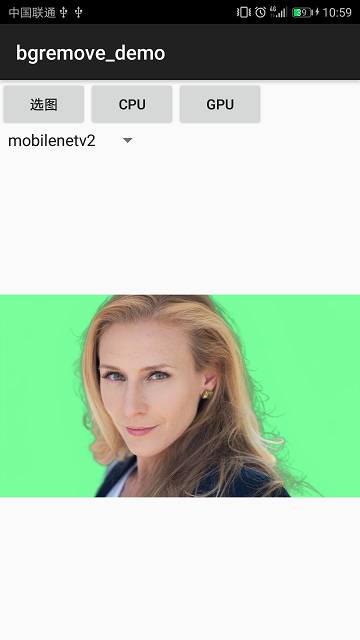
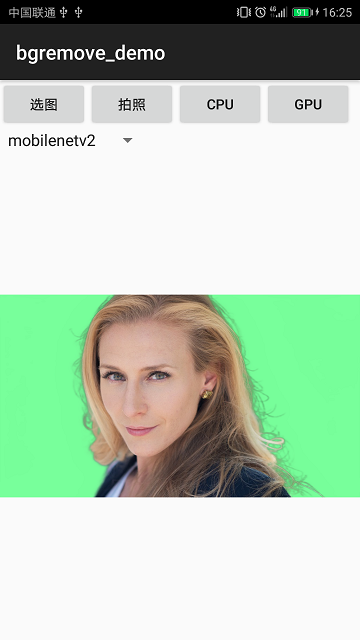
add take_photo from camera

diff --git a/app/src/main/java/com/tencent/photo/MainActivity.java b/app/src/main/java/com/tencent/photo/MainActivity.java
@@ -13,6 +13,8 @@
 // specific language governing permissions and limitations under the License.
 
 package com.tencent.photo;
+import android.os.Build;
+import android.Manifest;
 
 import android.app.Activity;
 import android.content.Intent;
@@ -29,28 +31,46 @@ import android.widget.ImageView;
 import android.widget.Spinner;
 import android.media.ExifInterface;
 import android.graphics.Matrix;
-
-import java.io.FileNotFoundException;
-import java.io.InputStream;
+import android.content.pm.PackageManager;
+import java.io.File;
 import java.io.IOException;
+import java.io.FileNotFoundException;
+import android.support.v4.app.ActivityCompat;
+import android.support.v4.content.ContextCompat;
+import android.support.v4.content.FileProvider;
+import android.provider.MediaStore;
 
+import android.os.Environment;
 public class MainActivity extends Activity
 {
-    private static final int SELECT_IMAGE = 1;
-
+    private static final int TAKE_PHOTO = 1;
+    private static final int SELECT_IMAGE = 2;
     private int style_type = 0;
     private ImageView imageView;
     private Bitmap yourSelectedImage = null;
+    private Uri imageUri;
+    private final String filePath = Environment.getExternalStorageDirectory() + File.separator + "output_image.jpg";
 
     private Photo photo = new Photo();
-
+    @Override
+    public void onRequestPermissionsResult(int requestCode, String[] permissions, int[] grantResults) {
+        super.onRequestPermissionsResult(requestCode, permissions, grantResults);
+        if (grantResults != null && grantResults.length != 0 && grantResults[0] == PackageManager.PERMISSION_GRANTED) {
+            switch (requestCode) {
+                case 1: {
+                    requestCamera();
+                }
+                break;
+            }
+        }
+    }
     /** Called when the activity is first created. */
     @Override
     public void onCreate(Bundle savedInstanceState)
     {
         super.onCreate(savedInstanceState);
         setContentView(R.layout.main);
-
+        //requestPermission();
         boolean ret_init = photo.Init(getAssets());
         if (!ret_init)
         {
@@ -68,7 +88,13 @@ public class MainActivity extends Activity
                 startActivityForResult(i, SELECT_IMAGE);
             }
         });
-
+        Button buttonCamera = (Button) findViewById(R.id.buttonCamera);
+        buttonCamera.setOnClickListener(new View.OnClickListener() {
+            @Override
+            public void onClick(View arg0) {
+                requestPermission();
+            }
+        });
         Button buttonDetect = (Button) findViewById(R.id.buttonDetect);
         buttonDetect.setOnClickListener(new View.OnClickListener() {
             @Override
@@ -123,28 +149,72 @@ public class MainActivity extends Activity
             }
         });
     }
+    private void requestPermission() {
+        if (ContextCompat.checkSelfPermission(this, Manifest.permission.WRITE_EXTERNAL_STORAGE) != PackageManager.PERMISSION_GRANTED) {
+            ActivityCompat.requestPermissions(this, new String[]{Manifest.permission.WRITE_EXTERNAL_STORAGE, Manifest.permission.CAMERA}, 1);
+        } else {
+            requestCamera();
+        }
+    }
+    private void requestCamera() {
+        File outputImage = new File(filePath);
+        try
+        {
+            if (!outputImage.getParentFile().exists()) {
+                outputImage.getParentFile().mkdirs();
+            }
+            if (outputImage.exists()) {
+                outputImage.delete();
+            }
 
+            outputImage.createNewFile();
+
+            if (Build.VERSION.SDK_INT >= 24) {
+                imageUri = FileProvider.getUriForFile(this,
+                        "com.tencent.photo.fileprovider", outputImage);
+            } else {
+                imageUri = Uri.fromFile(outputImage);
+            }
+            Intent intent = new Intent("android.media.action.IMAGE_CAPTURE");
+            intent.putExtra(MediaStore.EXTRA_OUTPUT, imageUri);
+            startActivityForResult(intent, TAKE_PHOTO);
+        } catch (IOException e) {
+            e.printStackTrace();
+        }
+
+    }
     @Override
-    protected void onActivityResult(int requestCode, int resultCode, Intent data)
-    {
+    protected void onActivityResult(int requestCode, int resultCode, Intent data) {
         super.onActivityResult(requestCode, resultCode, data);
-
-        if (resultCode == RESULT_OK && null != data) {
-            Uri selectedImage = data.getData();
-
-            try
-            {
-                if (requestCode == SELECT_IMAGE) {
-                    yourSelectedImage = decodeUri(selectedImage);
-
-                    imageView.setImageBitmap(yourSelectedImage);
+        switch (requestCode) {
+            case TAKE_PHOTO:
+                if (resultCode == RESULT_OK) {
+                    try {
+                        yourSelectedImage = BitmapFactory.decodeStream(getContentResolver().openInputStream(imageUri));
+                        imageView.setImageBitmap(yourSelectedImage);
+                    } catch (FileNotFoundException e) {
+                        e.printStackTrace();
+                        Log.e("MainActivity", "FileNotFoundException");
+                    }
                 }
-            }
-            catch (FileNotFoundException e)
-            {
-                Log.e("MainActivity", "FileNotFoundException");
-                return;
-            }
+                break;
+            case SELECT_IMAGE:
+                if (resultCode == RESULT_OK && null != data) {
+                    Uri selectedImage = data.getData();
+                    try {
+                        if (requestCode == SELECT_IMAGE) {
+                            yourSelectedImage = decodeUri(selectedImage);
+
+                            imageView.setImageBitmap(yourSelectedImage);
+                        }
+                    }
+                    catch (FileNotFoundException e) {
+                        Log.e("MainActivity", "FileNotFoundException");
+                        return;
+                    }
+                }
+            default:
+                break;
         }
     }
 
